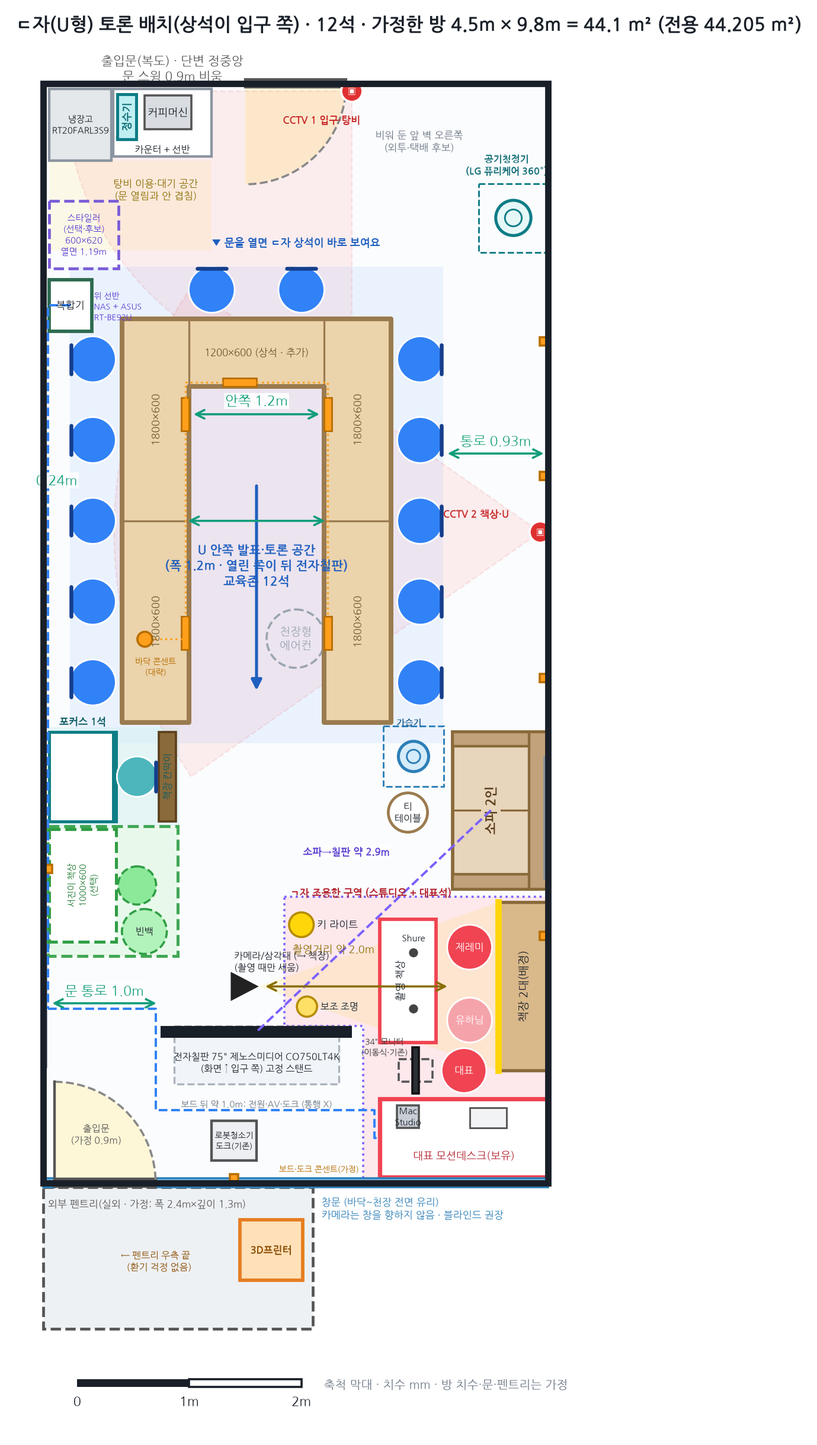
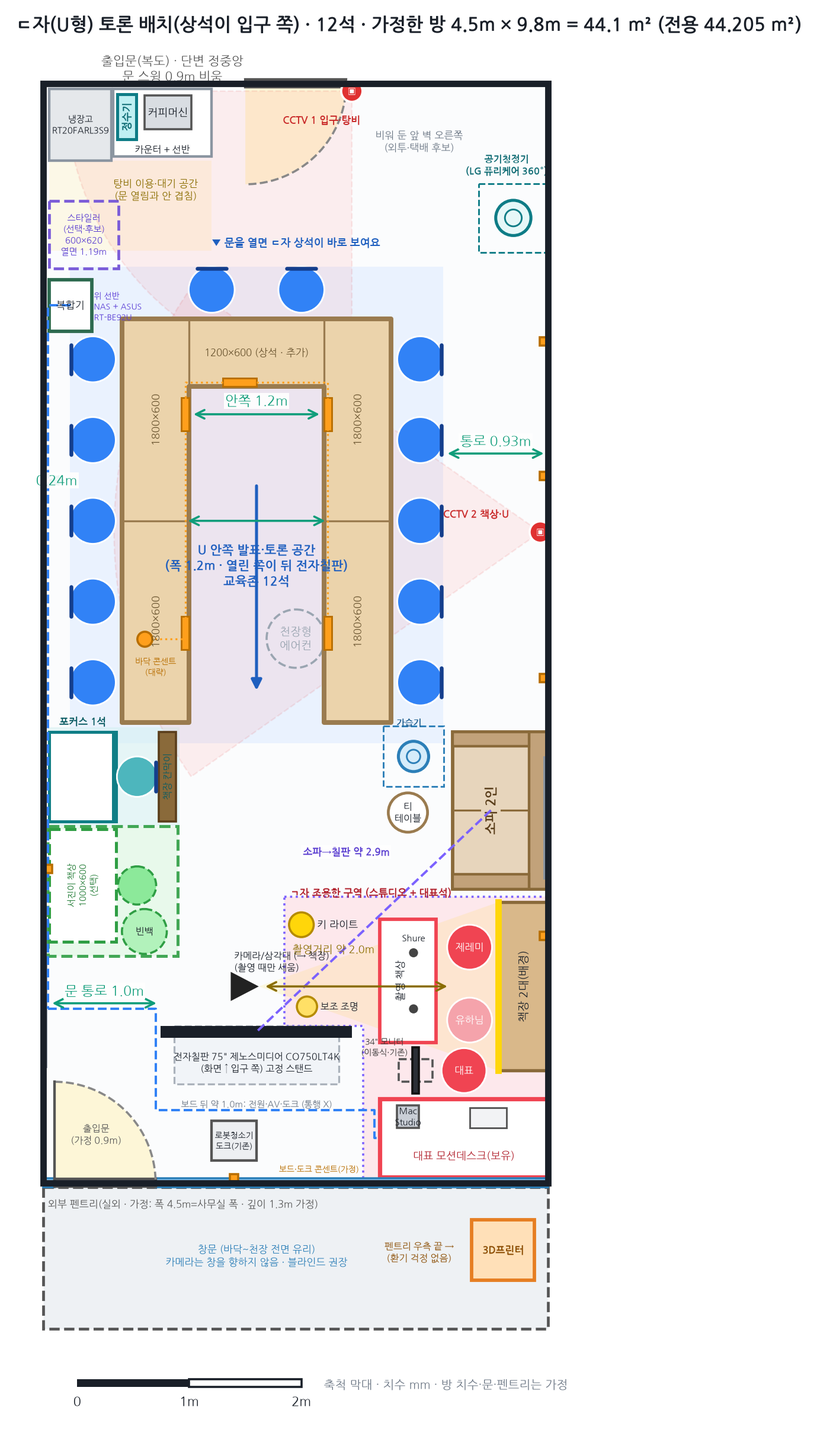
외부 펜트리 폭을 사무실 폭(4.5m)으로 변경, 3D 프린터는 맨 오른쪽 끝

Changed region(s): [[0.2806, 0.8105, 0.686, 0.904]]

diff --git a/index.html b/index.html
@@ -36,7 +36,7 @@
  <div class="eyebrow">한눈에</div>
  <h2>이 공간에 넣을 것들</h2>
  <p class="lead">전용 44.205㎡(약 13.4평) 지식산업센터 사무실에 교육 책상 12석(<b>ㄷ자 상석이 입구 쪽</b>) + 75형 전자칠판(당근 중고, <b>창 쪽 뒤에서 입구를 향해 설치</b>), 입구 쪽 탕비, 뒤쪽 ㄱ자 구역(대표석 모션데스크·YouTube 스튜디오), 왼쪽 벽 포커스석·서진이 아지트, 라운지 소파, 복합기, NAS·공유기, CCTV 2대를 넣는 계획이에요. <b>3D 프린터는 창 쪽 왼쪽 문 밖 외부 펜트리 우측 끝</b>에 둬요. 로봇청소기와 34형 울트라와이드 모니터는 기존 사무실 것을 가져와요.</p>
- <div class="callout warn reveal"><b>가정한 것</b> · 보내주신 방 사진 3장으로 <b>폭 약 4.5m × 길이 약 9.8m = 44.1㎡의 길쭉한 직사각형</b>을 추정했어요(전용 44.205㎡ 기준, 실측 아님). 한쪽 짧은 벽은 <b>바닥~천장 전면 유리창</b>, 반대쪽 짧은 벽에 <b>출입문</b>(단변 정중앙, 폭 약 0.9m·안쪽 여닫이 가정)이 있어요. 새로 알려주신 대로 <b>창문 쪽 왼쪽(도면 왼쪽 끝)에 열리는 문</b>이 있고 그 밖이 <b>외부 펜트리</b>라고 보고, 문 폭 0.9m·안쪽 여닫이·펜트리 폭 2.4m×깊이 1.3m는 <b>제가 가정한 값</b>이에요. ‘왼쪽’은 도면 왼쪽(옛 소파·옛 3D 프린터 쪽)으로 읽었어요. 바닥 콘센트는 방 중간쯤 한쪽 벽 가까이 1개를 대략 표시했어요. 천장형 에어컨은 중앙. <b>실측치가 오면 배치도를 다시 그릴게요.</b></div>
+ <div class="callout warn reveal"><b>가정한 것</b> · 보내주신 방 사진 3장으로 <b>폭 약 4.5m × 길이 약 9.8m = 44.1㎡의 길쭉한 직사각형</b>을 추정했어요(전용 44.205㎡ 기준, 실측 아님). 한쪽 짧은 벽은 <b>바닥~천장 전면 유리창</b>, 반대쪽 짧은 벽에 <b>출입문</b>(단변 정중앙, 폭 약 0.9m·안쪽 여닫이 가정)이 있어요. 새로 알려주신 대로 <b>창문 쪽 왼쪽(도면 왼쪽 끝)에 열리는 문</b>이 있고 그 밖이 <b>외부 펜트리</b>라고 보고, 문 폭 0.9m·안쪽 여닫이·펜트리 폭 4.5m(사무실 폭과 같음, 확인받음)×깊이 1.3m는 <b>제가 가정한 값</b>이에요. ‘왼쪽’은 도면 왼쪽(옛 소파·옛 3D 프린터 쪽)으로 읽었어요. 바닥 콘센트는 방 중간쯤 한쪽 벽 가까이 1개를 대략 표시했어요. 천장형 에어컨은 중앙. <b>실측치가 오면 배치도를 다시 그릴게요.</b></div>
  <div class="callout reveal" style="margin-top:12px"><b>스타일 가정</b> · 애플 사용자(Mac Studio·MacBook), 깔끔한 미니멀·모던, 유튜브 촬영(유하님과 함께), 화이트/오크/그레이 톤, USB-C·맥 호환 장비를 우선했어요.</div>
  <div class="grid g3p reveal" style="margin-top:20px">
   <div class="card"><h3>배치</h3><p>ㄷ자 12석이 추천. 문을 열면 ㄷ자 상석이 바로 보이고, 전자칠판은 뒤(창 쪽)에서 입구를 향해요. 소파에서도 칠판이 보여요. 15석은 포커스·라운지 여유가 줄어요.</p></div>
@@ -73,7 +73,7 @@
   <li class="wn"><b>!</b><span>통로 점검(솔직하게): 입구 쪽 상석을 놓은 대신 <b>통로는 오른쪽 한 줄(약 0.93m)</b>뿐이에요(왼쪽 의자~벽은 약 0.24m라 통로가 아니에요). U 안쪽 1.2m. <b>입구 통로는 문 열린 폭 0.9m(x 1.8~2.7m)가 그대로 비어 있어</b> 문 왼쪽 탕비 카운터 끝(x 1.5m)과 0.3m 떨어져 있어요. 대신 상석 의자와 탕비 대기 공간 끝은 약 0.15m라 <b>줄 선 사람이 상석 뒤에 바짝 서요</b>. 앞↔뒤 이동은 오른쪽 통로 → U 뒤끝에서 왼쪽으로 꺾어 이동하는 한 줄이라 <b>수업 중 이동은 불편</b>해요.</span></li>
   <li class="ok"><b>+</b><span><b>입구 쪽 상석·회의</b>: 문을 열면 ㄷ자 상석 2석(12석 기준)이 바로 보여 손님·수강생을 맞이하기 좋아요. 탕비가 바로 옆이라 커피·물을 가지고 바로 앉고, 냉장고·정수기·커피머신은 문 왼쪽 앞 벽에 한 줄로 붙였어요. 줄 서는 공간(약 1.45×0.8m)은 문 여닫이 반경 밖이에요.</span></li>
   <li><b>·</b><span>빔프로젝터·전동 스크린은 앞 벽이 비어도 칠판이 뒤로 갔기 때문에 맞는 투사 방향이 없어서 <b>도면에서 뺐어요</b>(구매표 ‘선택 장비’에는 남겨 둠). 전자칠판 하나로 가는 구성이에요.</span></li>
-  <li><b>·</b><span>별도 프린터는 복합기가 대신해서 뺐고, 복합기+NAS·공유기 선반은 왼쪽 벽(탕비와 분리)에 두었어요. <b>3D 프린터는 창 쪽 왼쪽 문 밖 외부 펜트리의 우측 끝</b>(도면 오렌지 상자)에 둬요. 외부라 환기·냄새 걱정이 줄지만 실내 전원 연결·겨울 온도·도난은 확인이 필요해요. 모션데스크는 보유품이고 Mac Studio·키보드·마우스를 올려둔 모습이에요. 바닥 콘센트 연결선은 오렌지 점선이에요.</span></li>
+  <li><b>·</b><span>별도 프린터는 복합기가 대신해서 뺐고, 복합기+NAS·공유기 선반은 왼쪽 벽(탕비와 분리)에 두었어요. <b>3D 프린터는 창 쪽 왼쪽 문 밖 외부 펜트리(창 벽 전체 폭)의 맨 오른쪽 끝</b>(도면 오렌지 상자)에 둬요. 외부라 환기·냄새 걱정이 줄지만 실내 전원 연결·겨울 온도·도난은 확인이 필요해요. 모션데스크는 보유품이고 Mac Studio·키보드·마우스를 올려둔 모습이에요. 바닥 콘센트 연결선은 오렌지 점선이에요.</span></li>
   <li><b>·</b><span><b>소파</b>: <b>오른쪽 벽에 등받이를 붙인 2인용</b>(약 850×1400, 치수 추정, 12석·15석 같음)이고 왼쪽(칠판 쪽)을 향해요. 앞에 티테이블, 위쪽에 가습기가 있어요. <b>소파에서 칠판까지 약 2.9m</b>(칠판 중심 기준, 정면에서 약 47° 비스듬히)라 보여요(도면 보라색 점선). 3인 소파는 이 자리에 들어가지 않아 2인형으로 통일했어요. 로봇청소기 도크는 칠판 뒤 통행 없는 자리예요.</span></li>
   <li class="ok"><b>+</b><span><b>공기청정기</b>(LG 퓨리케어 360° AS186HWWL, 315×511mm): 앞 벽 오른쪽 모서리 근처(중심 x 4.19m, y 1.2m)로 옮겼어요. 문 통로와 오른쪽 통로(0.93m)를 막지 않고, 사방 흡입이라 주변 0.3m를 비웠어요. 청정 62㎡라 44㎡ 전체를 덮어요. 가습기와는 약 4.8m 떨어져 있어요.</span></li>
   <li class="ok"><b>+</b><span><b>가습기</b>(하이드로에센셜 HY505RWLAH, 270×750mm): 소파 옆 U 뒤끝 쪽(중심 x 3.3m, y 6.0m). 가습 권장 면적이 약 35㎡라 라운지·U 뒤쪽 한정이에요(콘센트 위치 미확인).</span></li>
@@ -174,7 +174,7 @@
  <div class="callout reveal"><b>정리</b> · 복합기(캐논 MF664Cdw 등)는 인쇄·복사·스캔을 모두 해서 문서 인쇄용 별도 프린터는 필요 없어요. 별도 프린터는 사진·A3나 라벨이 필요할 때만 나중에 사요.</div>
  <div class="tbl reveal"><table class="big"><thead><tr><th>항목</th><th>등급</th><th>제품명 + 링크</th><th class="num">가격(단가)</th><th class="num">수량</th><th class="num">소계</th><th>한줄 이유</th></tr></thead><tbody><tr class="grpr"><td colspan="7">복합기</td></tr><tr class=""><td>복합기 (인쇄·복사·스캔)<span class="wtxt" style="color:#6B7684">입주 전 필수</span></td><td><span class="tg p">프리미엄</span></td><td><div class="pc"><img class="th" src="assets/img/p3-mfp-canon.jpg" alt="캐논 MF664Cdw 사진" loading="lazy"><div><a href="https://prod.danawa.com/info/?pcode=124012067" target="_blank" rel="noopener">캐논 MF664Cdw ↗</a></div></div></td><td class="num">489,000원<span class="wtxt" style="color:#6B7684">다나와 최저가</span></td><td class="num">1</td><td class="num"><b>489,000원</b></td><td>컬러 레이저 25ppm·양면·ADF, 맥 지원<span class="wtxt">⚠ 렌탈 가격은 미조사</span></td></tr><tr class=""><td></td><td><span class="tg v">가성비</span></td><td><div class="pc"><img class="th" src="assets/img/p3-mfp-sam.jpg" alt="삼성 SL-C563W 사진" loading="lazy"><div><a href="https://prod.danawa.com/info/?pcode=9847101" target="_blank" rel="noopener">삼성 SL-C563W ↗</a></div></div></td><td class="num">315,000원<span class="wtxt" style="color:#6B7684">다나와 최저가</span></td><td class="num">1</td><td class="num"><b>315,000원</b></td><td>복사·스캔·인쇄 되는 저가형<span class="wtxt">⚠ 컬러 4ppm·흑백 18ppm로 느림 · 렌탈 미조사</span></td></tr><tr class="grpr"><td colspan="7">프린터·메이커</td></tr><tr class=""><td>별도 프린터 (복합기와 별개)<span class="wtxt" style="color:#6B7684">나중에</span></td><td><span class="tg p">프리미엄</span></td><td><div class="pc"><img class="th" src="assets/img/p3-pr-l18050.jpg" alt="엡손 EcoTank Photo L18050 (A3 포토) 사진" loading="lazy"><div><a href="https://prod.danawa.com/info/?pcode=19603004" target="_blank" rel="noopener">엡손 EcoTank Photo L18050 (A3 포토) ↗</a></div></div></td><td class="num">549,000원<span class="wtxt" style="color:#6B7684">다나와 최저가</span></td><td class="num">1</td><td class="num"><b>549,000원</b></td><td>사진·A3 무한잉크, 맥 지원</td></tr><tr class=""><td></td><td><span class="tg v">가성비</span></td><td><div class="pc"><img class="th" src="assets/img/p3-pr-pth110.jpg" alt="브라더 PT-H110BW 라벨프린터 사진" loading="lazy"><div><a href="https://prod.danawa.com/info/?pcode=5344591" target="_blank" rel="noopener">브라더 PT-H110BW 라벨프린터 ↗</a></div></div></td><td class="num">59,000원<span class="wtxt" style="color:#6B7684">다나와 최저가</span></td><td class="num">1</td><td class="num"><b>59,000원</b></td><td>라벨·명찰용 소형</td></tr><tr class=""><td>3D 프린터 (외부 펜트리 우측 끝)<span class="wtxt" style="color:#6B7684">나중에</span></td><td><span class="tg p">프리미엄</span></td><td><div class="pc"><img class="th" src="assets/img/p3-3d-p1s.jpg" alt="뱀부랩 P1S 콤보 (밀폐형) 사진" loading="lazy"><div><a href="https://prod.danawa.com/info/?pcode=76550822" target="_blank" rel="noopener">뱀부랩 P1S 콤보 (밀폐형) ↗</a></div></div></td><td class="num">749,000원<span class="wtxt" style="color:#6B7684">다나와 최저가</span></td><td class="num">1</td><td class="num"><b>749,000원</b></td><td>밀폐형이라 냄새·소음 덜함, 256³</td></tr><tr class=""><td></td><td><span class="tg v">가성비</span></td><td><div class="pc"><img class="th" src="assets/img/p3-3d-a1m.jpg" alt="뱀부랩 A1 mini (오픈형) 사진" loading="lazy"><div><a href="https://prod.danawa.com/info/?pcode=75538655" target="_blank" rel="noopener">뱀부랩 A1 mini (오픈형) ↗</a></div></div></td><td class="num">279,000원<span class="wtxt" style="color:#6B7684">다나와 최저가</span></td><td class="num">1</td><td class="num"><b>279,000원</b></td><td>입문용 180³, 2.8만원대<span class="wtxt">⚠ 오픈형 → 외부 펜트리라도 비·먼지·저온 신경 필요</span></td></tr></tbody></table></div>
  <ul class="checks reveal" style="margin-top:18px">
-  <li class="wn"><b>!</b><span><b>3D 프린터 코너</b>: <b>창 쪽 왼쪽 문 밖 외부 펜트리의 우측 끝</b>(도면 오렌지 상자). 외부 공간이라 환기·냄새는 덜 걱정돼요. 밀폐형(P1S)은 소음·냄새가 더 적고, 오픈형(A1 mini)은 외부라도 비·먼지·온도(겨울 저온)에 신경 써야 해요. 펜트리 크기(2.4×1.3m 가정)·콘센트·관리단 규정·분실/도난은 확인 필요해요(미확인).</span></li>
+  <li class="wn"><b>!</b><span><b>3D 프린터 코너</b>: <b>창 쪽 왼쪽 문 밖 외부 펜트리(창 벽 전체 폭)의 맨 오른쪽 끝</b>(도면 오렌지 상자). 외부 공간이라 환기·냄새는 덜 걱정돼요. 밀폐형(P1S)은 소음·냄새가 더 적고, 오픈형(A1 mini)은 외부라도 비·먼지·온도(겨울 저온)에 신경 써야 해요. 펜트리 깊이(1.3m 가정; 폭 4.5m는 사무실 폭과 같다고 확인)·콘센트·관리단 규정·분실/도난은 확인 필요해요(미확인).</span></li>
   <li class="ok"><b>+</b><span>복합기는 렌탈이 나을 수도 있지만 렌탈 가격은 조사하지 않았어요(미확인).</span></li>
  </ul>
  <h3 class="sub3">선택: 빔프로젝터 + 스크린 (이번 도면에서는 제외)</h3>
@@ -235,7 +235,7 @@
   <li class="wn"><b>!</b><span>탕비 콘센트·급수·배수 위치와 새 탕비 자리의 실제 동선은 현장에서 확인하지 못했어요. 가습기는 LG 안내로 약 35㎡용이라 44㎡ 전체에는 부족할 수 있어요.</span></li>
   <li class="wn"><b>!</b><span>‘서울대 의자’ = 아이블(TNB501FE)은 블로그 후기 기준이고 대학 납품 사실은 공식 확인 못 했어요. 시디즈 보증기간은 판매처 표기가 달라요.</span></li>
   <li class="wn"><b>!</b><span><b>전자칠판</b>: 제노스미디어 CO750LT4K 75형 150만원은 사용자가 알려준 당근 중고 값이고 링크·실물 확인은 못 했어요. 스탠드 바닥 크기(도면 1467×520mm 가정)·AS는 미확인이에요. 칠판 뒤 약 1.0m 전원·AV·도크 자리의 콘센트 위치도 미확인.</span></li>
-  <li class="wn"><b>!</b><span><b>ㄱ자·크기 가정</b>: 대표석을 창 쪽 모서리에 둔 ㄱ자 해석, 대표 책상 1500×700, 스튜디오 책상 1100×500, 서진이 책상 위치, 로봇 도크·34형 모니터 크기는 가정이에요. <b>창 쪽 왼쪽 출입문(폭 0.9m·안쪽 여닫이)과 외부 펜트리(폭 2.4×깊이 1.3m)는 가정</b>이고 ‘왼쪽’은 도면 왼쪽으로 읽었어요(반대라면 알려주세요). CCTV 시야각은 제품 사양 기준 대략값이고 콘센트·급수·배수·바닥 콘센트 위치와 방 치수는 미확인이에요.</span></li>
+  <li class="wn"><b>!</b><span><b>ㄱ자·크기 가정</b>: 대표석을 창 쪽 모서리에 둔 ㄱ자 해석, 대표 책상 1500×700, 스튜디오 책상 1100×500, 서진이 책상 위치, 로봇 도크·34형 모니터 크기는 가정이에요. <b>창 쪽 왼쪽 출입문(폭 0.9m·안쪽 여닫이)과 외부 펜트리(폭 4.5m=사무실 폭은 확인, 깊이 1.3m는 가정)</b>이고 ‘왼쪽’은 도면 왼쪽으로 읽었어요(반대라면 알려주세요). CCTV 시야각은 제품 사양 기준 대략값이고 콘센트·급수·배수·바닥 콘센트 위치와 방 치수는 미확인이에요.</span></li>
   <li class="wn"><b>!</b><span><b>CCTV·서진이 책상 가격</b>: Tapo C225 76,310원·C110 38,280원·VIGI NVR1104H-4P 84,990원·한샘 키즈 책상 125,900원은 다나와 표시값(2026-11-02)이에요. 이케아 키즈 책상은 검색결과 표시값이라 정확한 상품 페이지 링크가 아니고, microSD·아지트 코너·스튜디오 책상은 가격 미정이에요. 개인정보 안내표지 규격·가격은 조사하지 않았어요.</span></li>
   <li class="wn"><b>!</b><span><b>스타일러</b>: SC5MBR61S 가격은 LG 페이지 표시가 혼재(2,191,000/2,070,000원)해 확정하지 못했고, 3벌 모델과 사무실(상업용) 설치 가능 여부는 확인하지 못했어요. 확정 구매 항목이 아니에요.</span></li>
   <li class="wn"><b>!</b><span>용달 요금·업체는 조사하지 않았어요(요청에 따라).</span></li>

diff --git a/3d/app.js b/3d/app.js
@@ -83,10 +83,10 @@ label(C,'출입문 (단변 정중앙)',2250,2.3,0,'k');
  const f=new THREE.Mesh(new THREE.CircleGeometry(.9,40,-Math.PI/2,Math.PI/2),new THREE.MeshBasicMaterial({color:'#FFD43B',transparent:true,opacity:.45,side:THREE.DoubleSide,depthWrite:false})); f.rotation.x=Math.PI/2; f.position.set(.1,.008,L); f.renderOrder=2; swingG.add(f);
  const ring=new THREE.Mesh(new THREE.RingGeometry(.895,.9,48,1,-Math.PI/2,Math.PI/2),new THREE.MeshBasicMaterial({color:'#B8860B',side:THREE.DoubleSide})); ring.rotation.x=Math.PI/2; ring.position.set(.1,.01,L); swingG.add(ring);}
 label(C,'창 쪽 왼쪽 출입문 (가정 0.9m)',550,2.55,9300,'k');
-// 외부 펜트리 (실외, 가정 2.4m×1.3m) — 3D프린터는 우측 끝
-{const ef=new THREE.Mesh(new THREE.PlaneGeometry(2.4,1.3),M('#CFD5DB',{r:.95})); ef.rotation.x=-Math.PI/2; ef.position.set(1.2,.003,L+.65+.04); C.add(ef);
- const wm=M('#B8C0C8',{a:.45,ds:true}); box(C,0,L*1000+40,30,1300,0,1.1,wm,false); box(C,2370,L*1000+40,30,1300,0,1.1,wm,false); box(C,0,L*1000+1310,2400,30,0,1.1,wm,false);}
-label(C,'외부 펜트리 (실외 · 가정)',650,.5,10900,'k');
+// 외부 펜트리 (실외, 가정 4.5m×1.3m, 사무실 폭과 같음) — 3D프린터는 우측 끝
+{const ef=new THREE.Mesh(new THREE.PlaneGeometry(4.5,1.3),M('#CFD5DB',{r:.95})); ef.rotation.x=-Math.PI/2; ef.position.set(2.25,.003,L+.65+.04); C.add(ef);
+ const wm=M('#B8C0C8',{a:.45,ds:true}); box(C,0,L*1000+40,30,1300,0,1.1,wm,false); box(C,4470,L*1000+40,30,1300,0,1.1,wm,false); box(C,0,L*1000+1310,4500,30,0,1.1,wm,false);}
+label(C,'외부 펜트리 (실외 · 폭 4.5m 가정)',1500,.5,10900,'k');
 label(C,'창문 · 바닥~천장 전면 유리 (뒤쪽)',3250,2.95,9800,'k');
 
 // ===== zones (바닥 색) =====
@@ -241,7 +241,7 @@ label(C,'로봇청소기 도크 (보드 뒤·기존)',1700,.5,9425,'s');
 humidifier(C,3300,6000); cyl(C,3.25,6.5,.175,.0,.45,M('#fff',{r:.4})); cyl(C,3.25,6.5,.18,.43,.03,WOOD);
 label(C,'티테이블',3250,.7,6500,'s');
 // 3D 프린터 maker — 외부 펜트리(실외) 우측 끝
-{const dx=1700,dy=900;
+{const dx=3760,dy=900;
 zone(C,50+dx,9200+dy,560,540,'#FFE9CC',.8);
 table(C,60+dx,9210+dy,540,520,WOOD_D,.74);
 box(C,90+dx,9240+dy,480,460,.74,.42,M('#ffffff',{a:.5})); for(const [a,b] of [[100,9250],[520,9250],[100,9640],[520,9640]]) box(C,a+dx,b+dy,40,40,.74,.42,M('#E67E22'));

diff --git a/work/build.py b/work/build.py
@@ -138,7 +138,7 @@ html_out=f'''<!doctype html>
  <div class="eyebrow">한눈에</div>
  <h2>이 공간에 넣을 것들</h2>
  <p class="lead">전용 44.205㎡(약 13.4평) 지식산업센터 사무실에 교육 책상 12석(<b>ㄷ자 상석이 입구 쪽</b>) + 75형 전자칠판(당근 중고, <b>창 쪽 뒤에서 입구를 향해 설치</b>), 입구 쪽 탕비, 뒤쪽 ㄱ자 구역(대표석 모션데스크·YouTube 스튜디오), 왼쪽 벽 포커스석·서진이 아지트, 라운지 소파, 복합기, NAS·공유기, CCTV 2대를 넣는 계획이에요. <b>3D 프린터는 창 쪽 왼쪽 문 밖 외부 펜트리 우측 끝</b>에 둬요. 로봇청소기와 34형 울트라와이드 모니터는 기존 사무실 것을 가져와요.</p>
- <div class="callout warn reveal"><b>가정한 것</b> · 보내주신 방 사진 3장으로 <b>폭 약 4.5m × 길이 약 9.8m = 44.1㎡의 길쭉한 직사각형</b>을 추정했어요(전용 44.205㎡ 기준, 실측 아님). 한쪽 짧은 벽은 <b>바닥~천장 전면 유리창</b>, 반대쪽 짧은 벽에 <b>출입문</b>(단변 정중앙, 폭 약 0.9m·안쪽 여닫이 가정)이 있어요. 새로 알려주신 대로 <b>창문 쪽 왼쪽(도면 왼쪽 끝)에 열리는 문</b>이 있고 그 밖이 <b>외부 펜트리</b>라고 보고, 문 폭 0.9m·안쪽 여닫이·펜트리 폭 2.4m×깊이 1.3m는 <b>제가 가정한 값</b>이에요. ‘왼쪽’은 도면 왼쪽(옛 소파·옛 3D 프린터 쪽)으로 읽었어요. 바닥 콘센트는 방 중간쯤 한쪽 벽 가까이 1개를 대략 표시했어요. 천장형 에어컨은 중앙. <b>실측치가 오면 배치도를 다시 그릴게요.</b></div>
+ <div class="callout warn reveal"><b>가정한 것</b> · 보내주신 방 사진 3장으로 <b>폭 약 4.5m × 길이 약 9.8m = 44.1㎡의 길쭉한 직사각형</b>을 추정했어요(전용 44.205㎡ 기준, 실측 아님). 한쪽 짧은 벽은 <b>바닥~천장 전면 유리창</b>, 반대쪽 짧은 벽에 <b>출입문</b>(단변 정중앙, 폭 약 0.9m·안쪽 여닫이 가정)이 있어요. 새로 알려주신 대로 <b>창문 쪽 왼쪽(도면 왼쪽 끝)에 열리는 문</b>이 있고 그 밖이 <b>외부 펜트리</b>라고 보고, 문 폭 0.9m·안쪽 여닫이·펜트리 폭 4.5m(사무실 폭과 같음, 확인받음)×깊이 1.3m는 <b>제가 가정한 값</b>이에요. ‘왼쪽’은 도면 왼쪽(옛 소파·옛 3D 프린터 쪽)으로 읽었어요. 바닥 콘센트는 방 중간쯤 한쪽 벽 가까이 1개를 대략 표시했어요. 천장형 에어컨은 중앙. <b>실측치가 오면 배치도를 다시 그릴게요.</b></div>
  <div class="callout reveal" style="margin-top:12px"><b>스타일 가정</b> · 애플 사용자(Mac Studio·MacBook), 깔끔한 미니멀·모던, 유튜브 촬영(유하님과 함께), 화이트/오크/그레이 톤, USB-C·맥 호환 장비를 우선했어요.</div>
  <div class="grid g3p reveal" style="margin-top:20px">
   <div class="card"><h3>배치</h3><p>ㄷ자 12석이 추천. 문을 열면 ㄷ자 상석이 바로 보이고, 전자칠판은 뒤(창 쪽)에서 입구를 향해요. 소파에서도 칠판이 보여요. 15석은 포커스·라운지 여유가 줄어요.</p></div>
@@ -175,7 +175,7 @@ html_out=f'''<!doctype html>
   <li class="wn"><b>!</b><span>통로 점검(솔직하게): 입구 쪽 상석을 놓은 대신 <b>통로는 오른쪽 한 줄(약 0.93m)</b>뿐이에요(왼쪽 의자~벽은 약 0.24m라 통로가 아니에요). U 안쪽 1.2m. <b>입구 통로는 문 열린 폭 0.9m(x 1.8~2.7m)가 그대로 비어 있어</b> 문 왼쪽 탕비 카운터 끝(x 1.5m)과 0.3m 떨어져 있어요. 대신 상석 의자와 탕비 대기 공간 끝은 약 0.15m라 <b>줄 선 사람이 상석 뒤에 바짝 서요</b>. 앞↔뒤 이동은 오른쪽 통로 → U 뒤끝에서 왼쪽으로 꺾어 이동하는 한 줄이라 <b>수업 중 이동은 불편</b>해요.</span></li>
   <li class="ok"><b>+</b><span><b>입구 쪽 상석·회의</b>: 문을 열면 ㄷ자 상석 2석(12석 기준)이 바로 보여 손님·수강생을 맞이하기 좋아요. 탕비가 바로 옆이라 커피·물을 가지고 바로 앉고, 냉장고·정수기·커피머신은 문 왼쪽 앞 벽에 한 줄로 붙였어요. 줄 서는 공간(약 1.45×0.8m)은 문 여닫이 반경 밖이에요.</span></li>
   <li><b>·</b><span>빔프로젝터·전동 스크린은 앞 벽이 비어도 칠판이 뒤로 갔기 때문에 맞는 투사 방향이 없어서 <b>도면에서 뺐어요</b>(구매표 ‘선택 장비’에는 남겨 둠). 전자칠판 하나로 가는 구성이에요.</span></li>
-  <li><b>·</b><span>별도 프린터는 복합기가 대신해서 뺐고, 복합기+NAS·공유기 선반은 왼쪽 벽(탕비와 분리)에 두었어요. <b>3D 프린터는 창 쪽 왼쪽 문 밖 외부 펜트리의 우측 끝</b>(도면 오렌지 상자)에 둬요. 외부라 환기·냄새 걱정이 줄지만 실내 전원 연결·겨울 온도·도난은 확인이 필요해요. 모션데스크는 보유품이고 Mac Studio·키보드·마우스를 올려둔 모습이에요. 바닥 콘센트 연결선은 오렌지 점선이에요.</span></li>
+  <li><b>·</b><span>별도 프린터는 복합기가 대신해서 뺐고, 복합기+NAS·공유기 선반은 왼쪽 벽(탕비와 분리)에 두었어요. <b>3D 프린터는 창 쪽 왼쪽 문 밖 외부 펜트리(창 벽 전체 폭)의 맨 오른쪽 끝</b>(도면 오렌지 상자)에 둬요. 외부라 환기·냄새 걱정이 줄지만 실내 전원 연결·겨울 온도·도난은 확인이 필요해요. 모션데스크는 보유품이고 Mac Studio·키보드·마우스를 올려둔 모습이에요. 바닥 콘센트 연결선은 오렌지 점선이에요.</span></li>
   <li><b>·</b><span><b>소파</b>: <b>오른쪽 벽에 등받이를 붙인 2인용</b>(약 850×1400, 치수 추정, 12석·15석 같음)이고 왼쪽(칠판 쪽)을 향해요. 앞에 티테이블, 위쪽에 가습기가 있어요. <b>소파에서 칠판까지 약 {S12["sofa_dist"]/1000:.1f}m</b>(칠판 중심 기준, 정면에서 약 {S12["sofa_off_axis"]}° 비스듬히)라 보여요(도면 보라색 점선). 3인 소파는 이 자리에 들어가지 않아 2인형으로 통일했어요. 로봇청소기 도크는 칠판 뒤 통행 없는 자리예요.</span></li>
   <li class="ok"><b>+</b><span><b>공기청정기</b>(LG 퓨리케어 360° AS186HWWL, 315×511mm): 앞 벽 오른쪽 모서리 근처(중심 x 4.19m, y 1.2m)로 옮겼어요. 문 통로와 오른쪽 통로(0.93m)를 막지 않고, 사방 흡입이라 주변 0.3m를 비웠어요. 청정 62㎡라 44㎡ 전체를 덮어요. 가습기와는 약 4.8m 떨어져 있어요.</span></li>
   <li class="ok"><b>+</b><span><b>가습기</b>(하이드로에센셜 HY505RWLAH, 270×750mm): 소파 옆 U 뒤끝 쪽(중심 x 3.3m, y 6.0m). 가습 권장 면적이 약 35㎡라 라운지·U 뒤쪽 한정이에요(콘센트 위치 미확인).</span></li>
@@ -276,7 +276,7 @@ html_out=f'''<!doctype html>
  <div class="callout reveal"><b>정리</b> · 복합기(캐논 MF664Cdw 등)는 인쇄·복사·스캔을 모두 해서 문서 인쇄용 별도 프린터는 필요 없어요. 별도 프린터는 사진·A3나 라벨이 필요할 때만 나중에 사요.</div>
  {print_table}
  <ul class="checks reveal" style="margin-top:18px">
-  <li class="wn"><b>!</b><span><b>3D 프린터 코너</b>: <b>창 쪽 왼쪽 문 밖 외부 펜트리의 우측 끝</b>(도면 오렌지 상자). 외부 공간이라 환기·냄새는 덜 걱정돼요. 밀폐형(P1S)은 소음·냄새가 더 적고, 오픈형(A1 mini)은 외부라도 비·먼지·온도(겨울 저온)에 신경 써야 해요. 펜트리 크기(2.4×1.3m 가정)·콘센트·관리단 규정·분실/도난은 확인 필요해요(미확인).</span></li>
+  <li class="wn"><b>!</b><span><b>3D 프린터 코너</b>: <b>창 쪽 왼쪽 문 밖 외부 펜트리(창 벽 전체 폭)의 맨 오른쪽 끝</b>(도면 오렌지 상자). 외부 공간이라 환기·냄새는 덜 걱정돼요. 밀폐형(P1S)은 소음·냄새가 더 적고, 오픈형(A1 mini)은 외부라도 비·먼지·온도(겨울 저온)에 신경 써야 해요. 펜트리 깊이(1.3m 가정; 폭 4.5m는 사무실 폭과 같다고 확인)·콘센트·관리단 규정·분실/도난은 확인 필요해요(미확인).</span></li>
   <li class="ok"><b>+</b><span>복합기는 렌탈이 나을 수도 있지만 렌탈 가격은 조사하지 않았어요(미확인).</span></li>
  </ul>
  <h3 class="sub3">선택: 빔프로젝터 + 스크린 (이번 도면에서는 제외)</h3>
@@ -337,7 +337,7 @@ html_out=f'''<!doctype html>
   <li class="wn"><b>!</b><span>탕비 콘센트·급수·배수 위치와 새 탕비 자리의 실제 동선은 현장에서 확인하지 못했어요. 가습기는 LG 안내로 약 35㎡용이라 44㎡ 전체에는 부족할 수 있어요.</span></li>
   <li class="wn"><b>!</b><span>‘서울대 의자’ = 아이블(TNB501FE)은 블로그 후기 기준이고 대학 납품 사실은 공식 확인 못 했어요. 시디즈 보증기간은 판매처 표기가 달라요.</span></li>
   <li class="wn"><b>!</b><span><b>전자칠판</b>: 제노스미디어 CO750LT4K 75형 150만원은 사용자가 알려준 당근 중고 값이고 링크·실물 확인은 못 했어요. 스탠드 바닥 크기(도면 1467×520mm 가정)·AS는 미확인이에요. 칠판 뒤 약 1.0m 전원·AV·도크 자리의 콘센트 위치도 미확인.</span></li>
-  <li class="wn"><b>!</b><span><b>ㄱ자·크기 가정</b>: 대표석을 창 쪽 모서리에 둔 ㄱ자 해석, 대표 책상 1500×700, 스튜디오 책상 1100×500, 서진이 책상 위치, 로봇 도크·34형 모니터 크기는 가정이에요. <b>창 쪽 왼쪽 출입문(폭 0.9m·안쪽 여닫이)과 외부 펜트리(폭 2.4×깊이 1.3m)는 가정</b>이고 ‘왼쪽’은 도면 왼쪽으로 읽었어요(반대라면 알려주세요). CCTV 시야각은 제품 사양 기준 대략값이고 콘센트·급수·배수·바닥 콘센트 위치와 방 치수는 미확인이에요.</span></li>
+  <li class="wn"><b>!</b><span><b>ㄱ자·크기 가정</b>: 대표석을 창 쪽 모서리에 둔 ㄱ자 해석, 대표 책상 1500×700, 스튜디오 책상 1100×500, 서진이 책상 위치, 로봇 도크·34형 모니터 크기는 가정이에요. <b>창 쪽 왼쪽 출입문(폭 0.9m·안쪽 여닫이)과 외부 펜트리(폭 4.5m=사무실 폭은 확인, 깊이 1.3m는 가정)</b>이고 ‘왼쪽’은 도면 왼쪽으로 읽었어요(반대라면 알려주세요). CCTV 시야각은 제품 사양 기준 대략값이고 콘센트·급수·배수·바닥 콘센트 위치와 방 치수는 미확인이에요.</span></li>
   <li class="wn"><b>!</b><span><b>CCTV·서진이 책상 가격</b>: Tapo C225 76,310원·C110 38,280원·VIGI NVR1104H-4P 84,990원·한샘 키즈 책상 125,900원은 다나와 표시값(2026-11-02)이에요. 이케아 키즈 책상은 검색결과 표시값이라 정확한 상품 페이지 링크가 아니고, microSD·아지트 코너·스튜디오 책상은 가격 미정이에요. 개인정보 안내표지 규격·가격은 조사하지 않았어요.</span></li>
   <li class="wn"><b>!</b><span><b>스타일러</b>: SC5MBR61S 가격은 LG 페이지 표시가 혼재(2,191,000/2,070,000원)해 확정하지 못했고, 3벌 모델과 사무실(상업용) 설치 가능 여부는 확인하지 못했어요. 확정 구매 항목이 아니에요.</span></li>
   <li class="wn"><b>!</b><span>용달 요금·업체는 조사하지 않았어요(요청에 따라).</span></li>

diff --git a/work/layouts5.py b/work/layouts5.py
@@ -58,19 +58,19 @@ def build(mode):
     R(ax,0,0,W,H,"#FBFCFD",z=0)
     # ---------- window (bottom short wall) with 외부 펜트리 출입문 (왼쪽 끝) / door (top short wall)
     R(ax,0,H-40,100,80,"#9AD3FF","#2C7FB8",1,z=6); R(ax,1000,H-40,W-1000,80,"#9AD3FF","#2C7FB8",1,z=6)
-    T(ax,2480,H+230,"창문 (바닥~천장 전면 유리)\n카메라는 창을 향하지 않음 · 블라인드 권장",fs=4.8,c="#2C7FB8",ha="left")
+    T(ax,1900,H+650,"창문 (바닥~천장 전면 유리)\n카메라는 창을 향하지 않음 · 블라인드 권장",fs=4.8,c="#2C7FB8",ha="center")
     R(ax,100,H-35,900,70,"#FFFFFF","#555",1.2,z=7)
     ax.add_patch(Wedge((100,H),900,270,360,fc="#FFF3BF",alpha=.6,ec="none",zorder=2))
     ax.add_patch(Arc((100,H),1800,1800,theta1=270,theta2=360,color="#888",lw=1,ls="--",zorder=7))
     ax.plot([100,100],[H,H-900],color="#555",lw=1.2,zorder=7)
     T(ax,470,H-430,"출입문\n(가정 0.9m)",fs=4.4,c="#555")
     # 외부 펜트리 (벽 밖, 실외) + 3D 프린터 우측 끝
-    EX1,EY1=2400,H+1300
+    EX1,EY1=W,H+1300
     R(ax,0,H+40,EX1,EY1-H-40,"#EEF1F4","#555",1.3,z=2,ls="--")
-    T(ax,40,H+190,"외부 펜트리(실외 · 가정: 폭 2.4m×깊이 1.3m)",fs=4.8,c="#555",ha="left")
-    R(ax,1750,H+330,560,540,"#FFE0B8","#E67E22",1.6,z=5); T(ax,2030,H+600,"3D프린터",fs=4.8,c="#8A4B00",fontweight="bold")
-    T(ax,1000,H+700,"← 펜트리 우측 끝\n   (환기 걱정 없음)",fs=4.4,c="#8A4B00",ha="center")
-    ax.plot([2030],[H-30],alpha=0)
+    T(ax,40,H+190,"외부 펜트리(실외 · 가정: 폭 4.5m=사무실 폭 · 깊이 1.3m 가정)",fs=4.8,c="#555",ha="left")
+    R(ax,3820,H+330,560,540,"#FFE0B8","#E67E22",1.6,z=5); T(ax,4100,H+600,"3D프린터",fs=4.8,c="#8A4B00",fontweight="bold")
+    T(ax,3350,H+620,"펜트리 우측 끝 →\n(환기 걱정 없음)",fs=4.4,c="#8A4B00",ha="center")
+    ax.plot([4100],[H-30],alpha=0)
     # ---------- front door
     DX0,DX1=1800,2700
     R(ax,DX0,-35,DX1-DX0,70,"#FFFFFF","#555",1.2,z=7)
